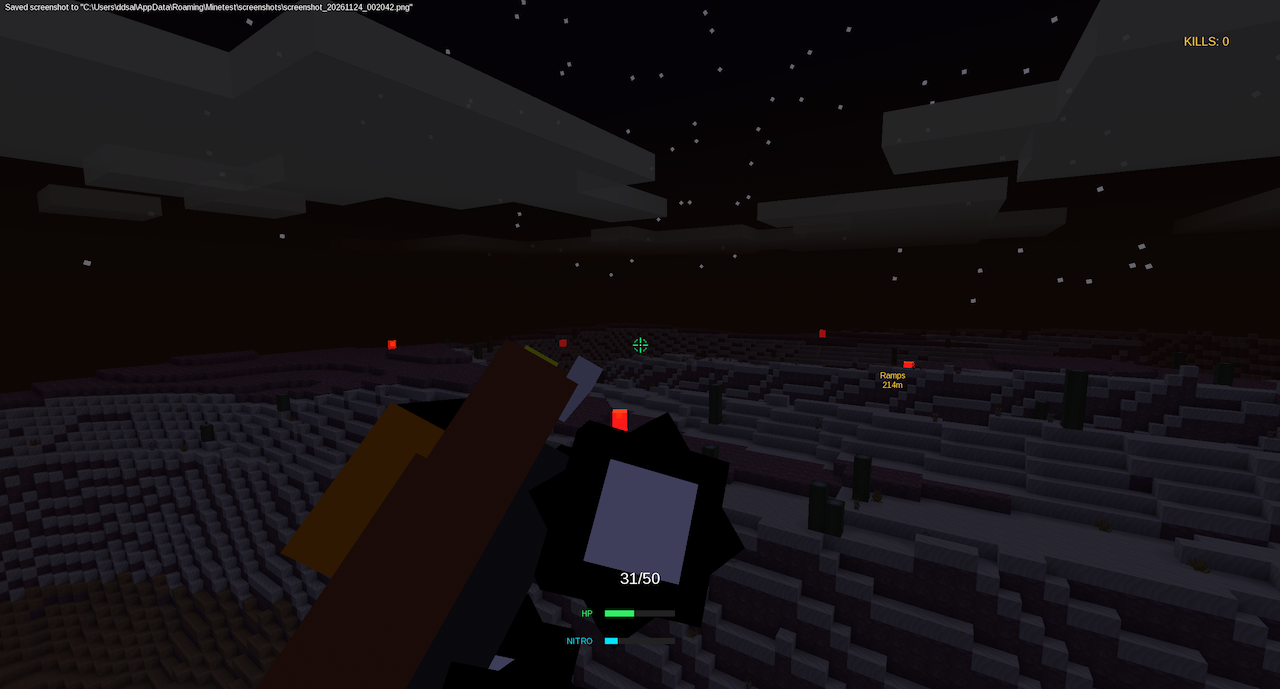
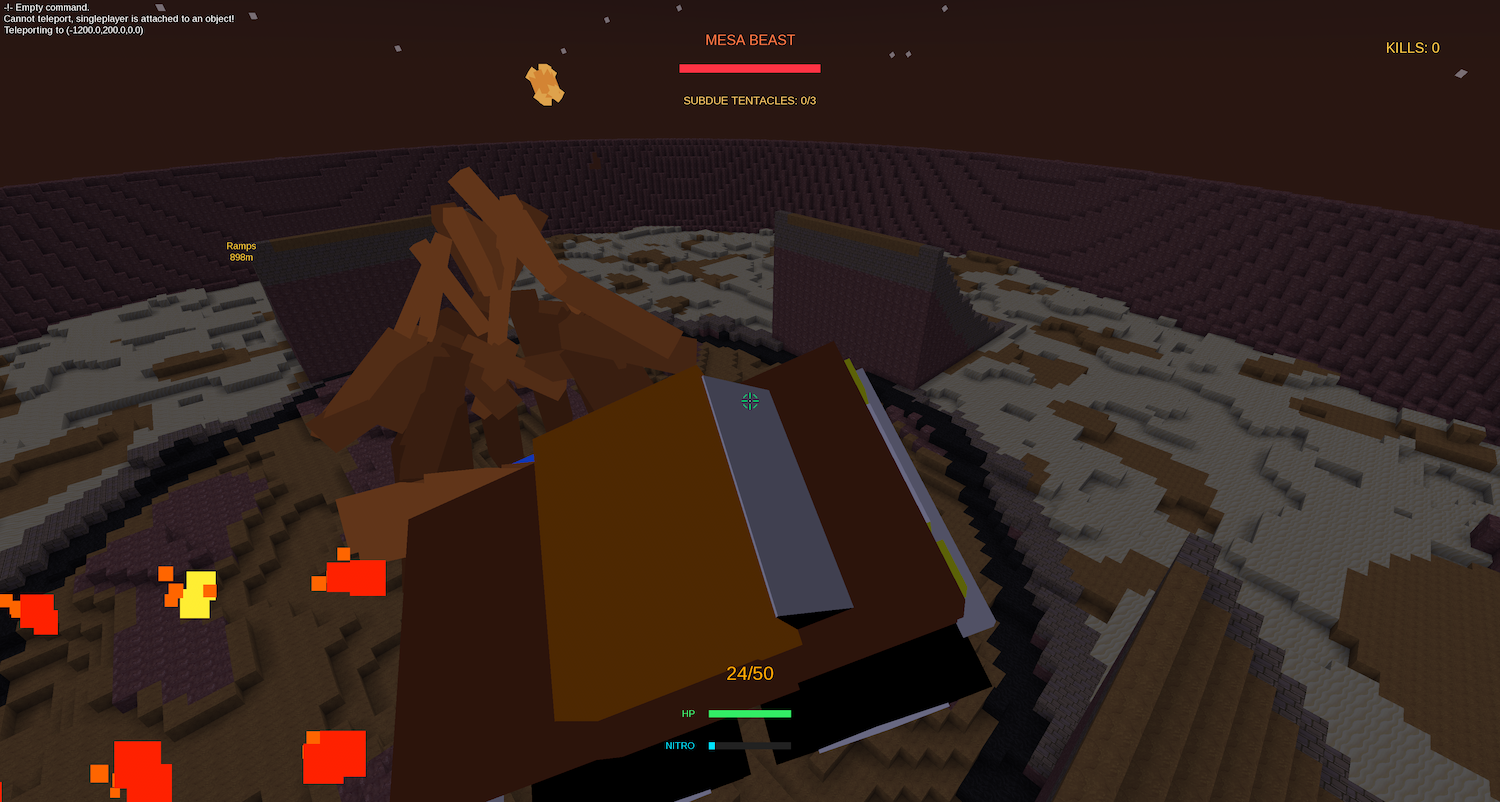
Action Screenshot

diff --git a/JAM2026.md b/JAM2026.md
@@ -1,4 +1,5 @@
 - Day 1: Driving Mechanics
 - Day 2: https://exevirus.github.io/luanti_mapgen_editor/
 - Day 3: Mapgen.lua and new runtime.lua mechanics and first upload
-- Day 4: Enemies, Monster Truck Model, Tuned Physics, Better Shooting
+- Day 4: Checkpoints, Enemies, Monster Truck Model, Tuned Physics, Better Shooting
+- Day 5: Boss, First/Third Person AUX view Toggle, Bomb with right mouse click, Thrust Particles, Sunset not Night

diff --git a/readme.md b/readme.md
@@ -8,7 +8,7 @@
 
 #### A Luanti GAME JAM 2026 Submission
 
-**You are a bounty hunter aiming to capture a Desert Beast. (TBD)**
+**You are a bounty hunter aiming to kill a Mesa Beast. (TBD)**
 
 Controls:
 - W: Forward
@@ -17,4 +17,4 @@ Controls:
 - Spacebar: Nitro
 - Mouse: Aim
 - Left Mouse button: Bullets
-- Right Mouse button: Bomb/Missile (TBD)
+- Right Mouse button: Bomb/Missile
